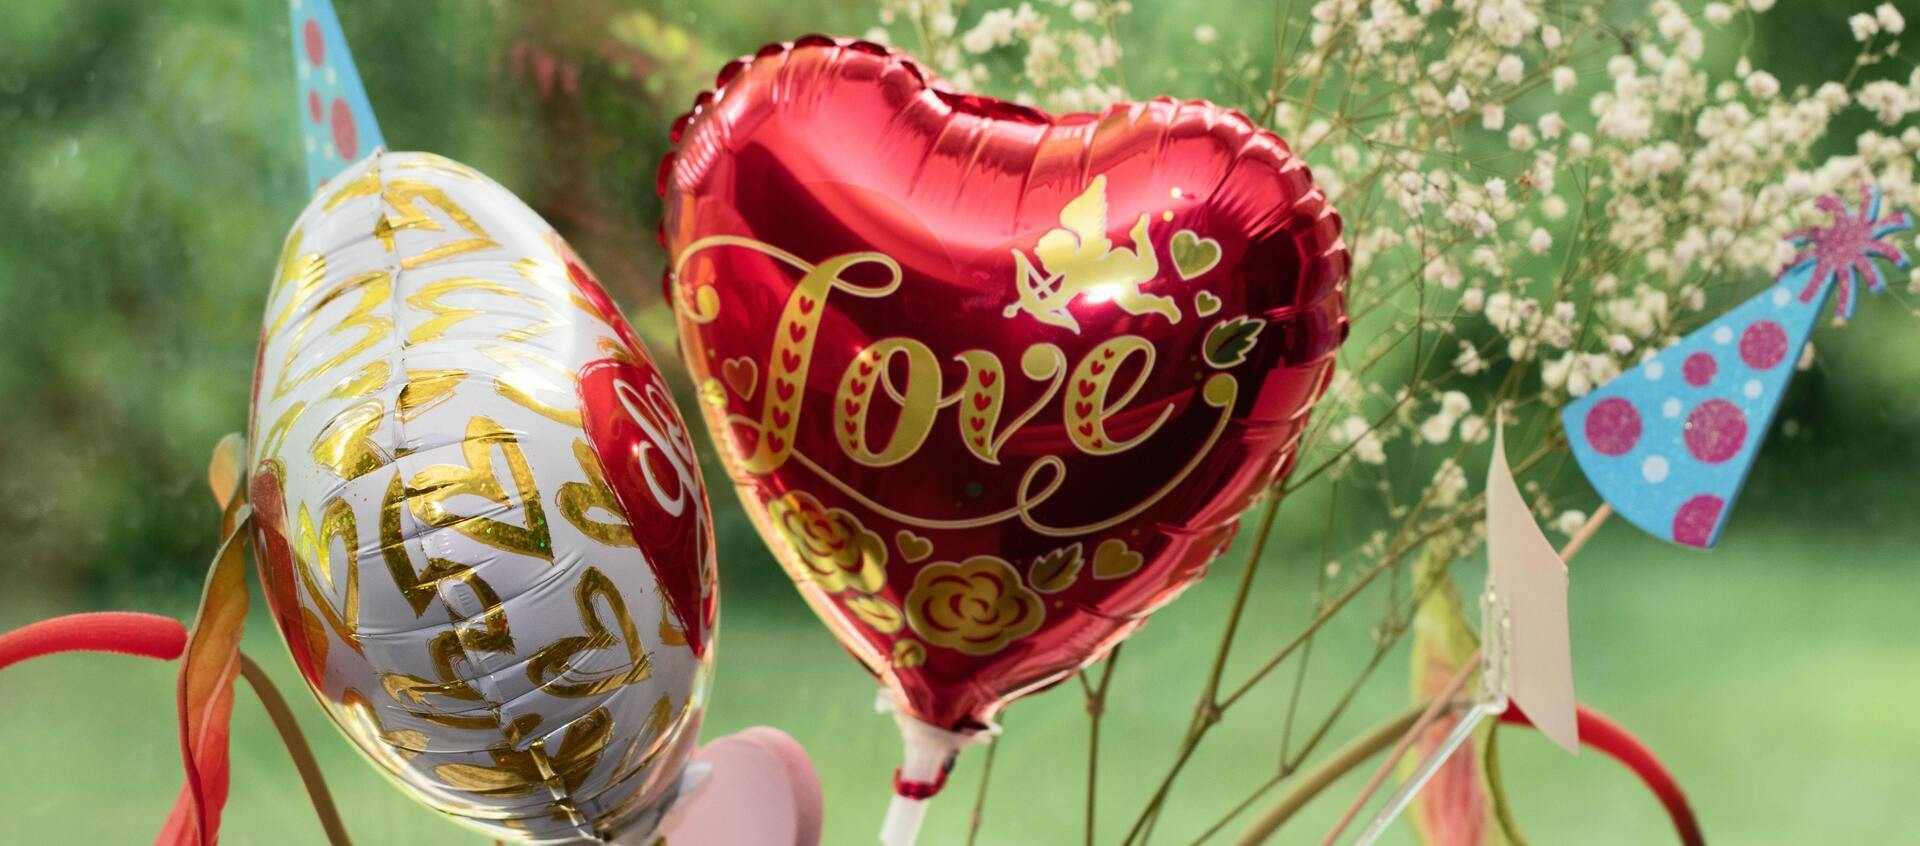
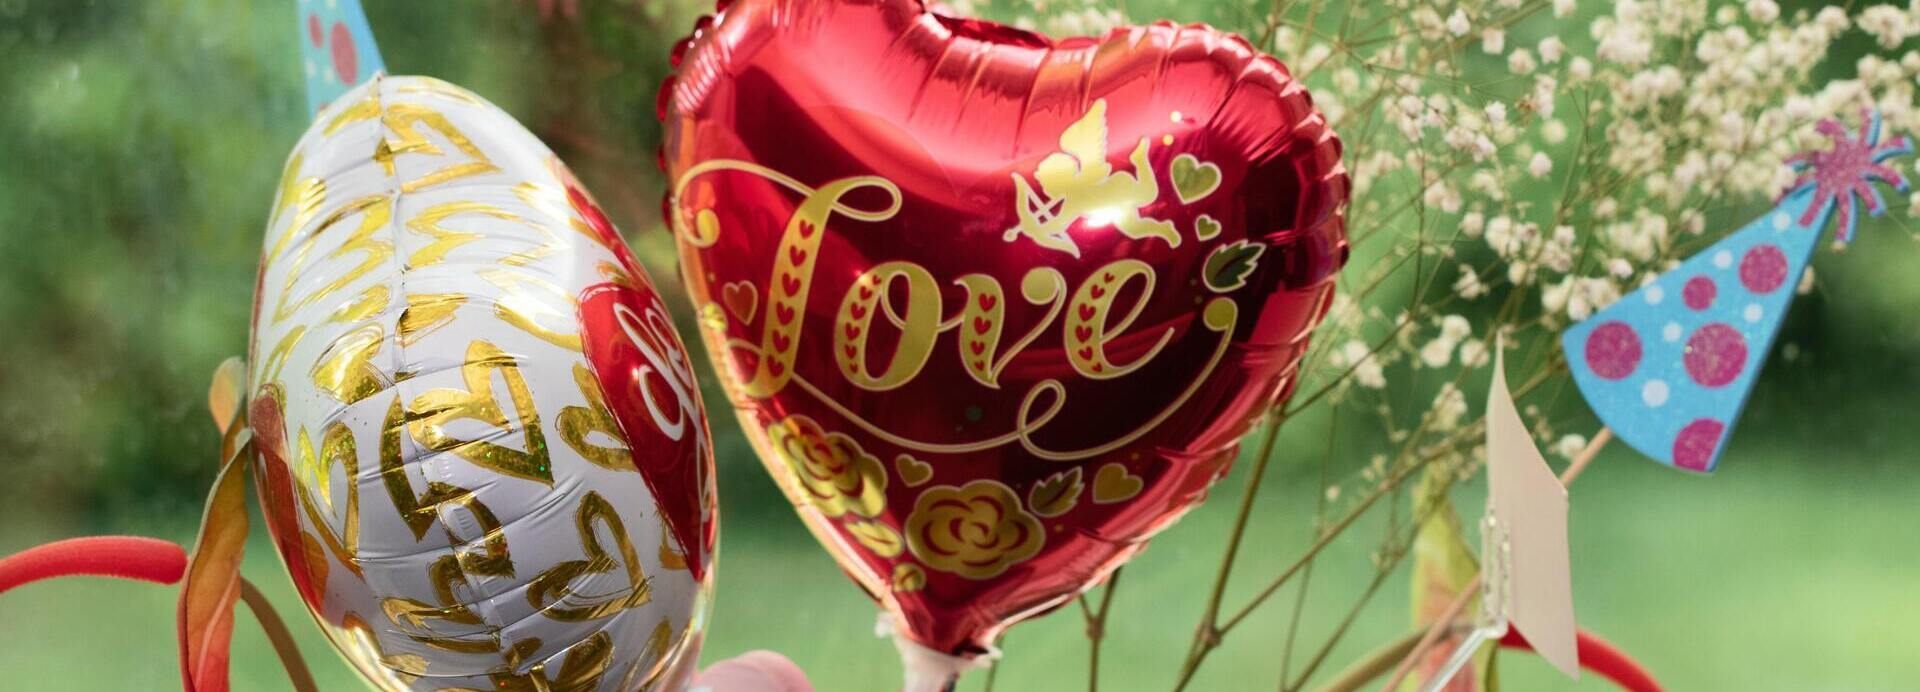
resize hero image, readjusted hero image to be more responsive, included hero image inside a div

diff --git a/assets/css/style.css b/assets/css/style.css
@@ -74,7 +74,7 @@ section {
     
         display: flex;
         flex-direction: column;
-        min-height: 120vh;
+        /*min-height: 120vh;*/
         
       }
       
@@ -84,14 +84,27 @@ section {
 
 
 #hero-outer {
-    height: 400px;
+    height: auto;
     width: 100%;
     overflow: hidden;
 
     position: relative;
 }
 
-#hero_image {
+#hero_image_box {
+    height: auto;
+    width: 100%;
+    position: relative;
+}
+
+#hero-image {
+    width: 100%;
+    max-width: 100%;
+    height: auto;
+}
+
+    /*
+
 
     height: 1000px;
     width: 100%;
@@ -100,6 +113,7 @@ section {
     
     padding-top: 10px;
     padding-bottom: 10px;
+    /*object-fit: contain;*/
     /*background-attachment: fixed;*/
 /*
     /*height: 600px;*//*
@@ -116,11 +130,12 @@ section {
     
     overflow: hidden;
     
-    */
+    
+
+*/
 
 
 
-}
 
 .greeting {
     margin-top: 80px;

diff --git a/index.html b/index.html
@@ -33,7 +33,9 @@
         </nav>
     </header>
     <section id="hero-outer">
-        <div id="hero_image"></div>
+        <div id="hero_image_box">
+            <img src="assets/images/hero_image_3.jpg" alt="Heart shaped ballons on a green background" id="hero-image">
+        </div>
     </section>
     <section class="featured-items">
         <h1 class="greeting">The best balloons you find here!</h1>
